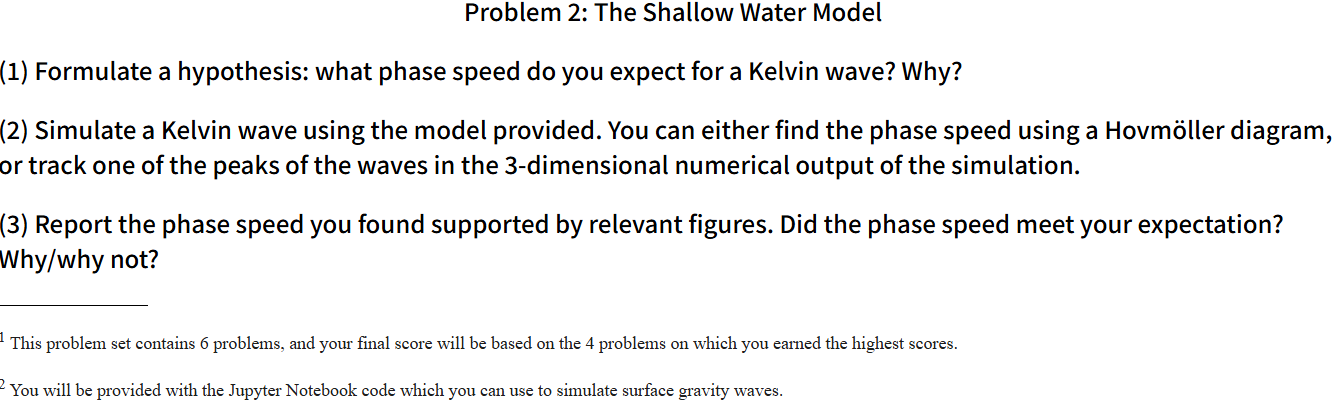
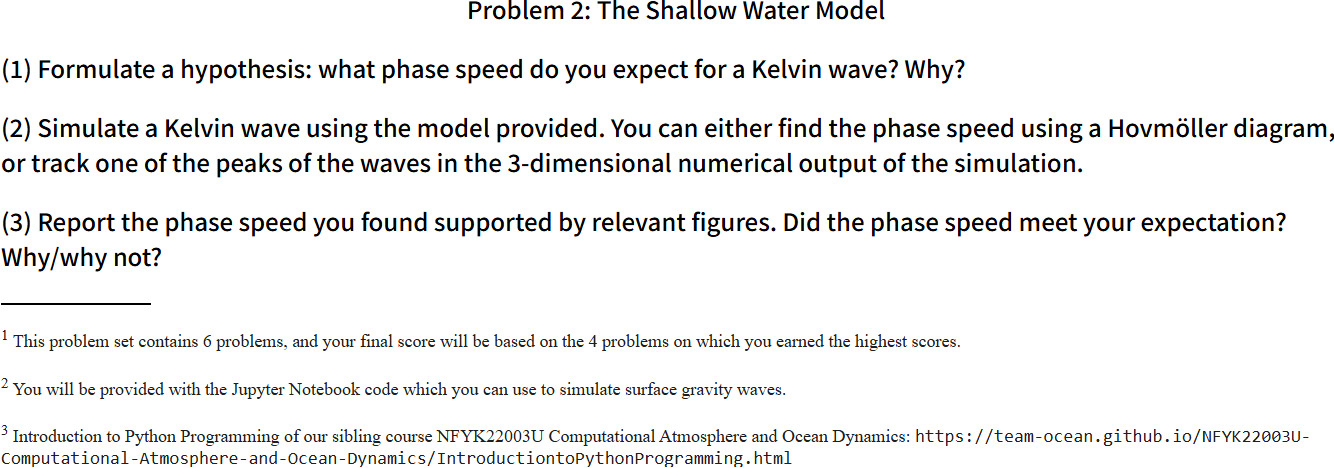
Update

diff --git a/PS2Slide3.html b/PS2Slide3.html
@@ -108,6 +108,12 @@ window.addEventListener('resize', scaleContainer);
             <p class="footnote">
                 <p class="footnote"><sup>2</sup> You will be provided with the Jupyter Notebook code which you can use to simulate surface gravity waves.
             </p>
+            <p class="footnote">
+                <p class="footnote"><sup>3</sup> Introduction to Python Programming of our sibling course NFYK22003U Computational Atmosphere and Ocean Dynamics:
+                <a href="https://team-ocean.github.io/NFYK22003U-Computational-Atmosphere-and-Ocean-Dynamics/IntroductiontoPythonProgramming.html" target="_blank">
+                    <code>https://team-ocean.github.io/NFYK22003U-Computational-Atmosphere-and-Ocean-Dynamics/IntroductiontoPythonProgramming.html</code>
+                </a> 
+            </p>
         </div>
         <!-- Navigation Arrows -->
         <a href="PS2Slide2.html" class="nav-button left">&#9664;</a>
